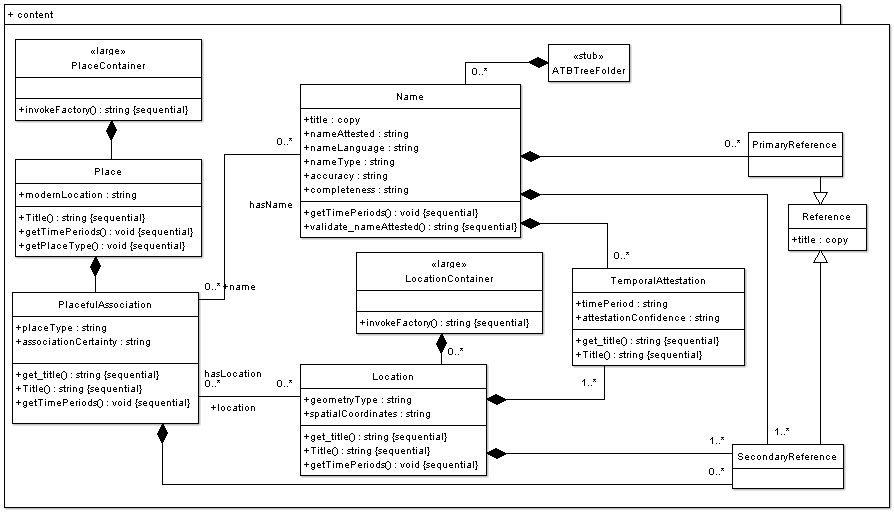
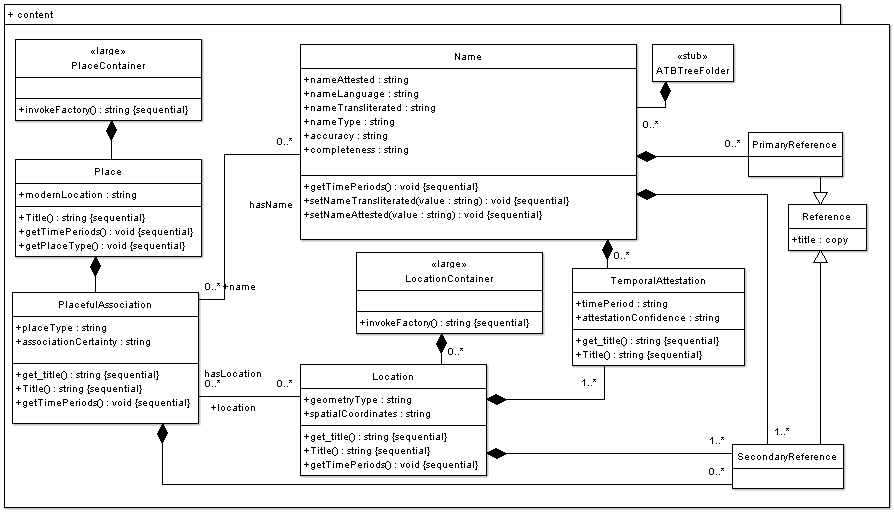
Closes ticket #239. Automatic transliteration of attested names, as well as population of titles for adds/edits through-the-web. Modification of loader code to handle coincident model changes and invoke auto-transliteration as well - UPDATE YOUR EXTERNAL METHODS. Make tests check everything and work

Changed region(s): [[0.3322, 0.1238, 0.6946, 0.4952], [0.5738, 0.0928, 0.8456, 0.4642], [0.5134, 0.0928, 0.5436, 0.1547]]

diff --git a/content/Name.py b/content/Name.py
@@ -36,16 +36,12 @@ from Products.PleiadesEntity.config import *
 ##code-section module-header #fill in your manual code here
 from Products.CMFCore.permissions import View
 from Products.PleiadesEntity.Extensions.ws_validation import validate_name
+from Products.PleiadesEntity.Extensions.ws_transliteration import transliterate_name
 ##/code-section module-header
 
-copied_fields = {}
-copied_fields['title'] = BaseSchema['title'].copy()
-copied_fields['title'].widget.label = "Transliterated Name"
-copied_fields['title'].widget.description = "A transliteration into the ASCII character set of the the attested name."
 schema = Schema((
 
-    copied_fields['title'],
-        StringField(
+    StringField(
         name='nameAttested',
         index="ZCTextIndex",
         widget=StringWidget(
@@ -70,6 +66,15 @@ schema = Schema((
         ),
         vocabulary=NamedVocabulary("""ancient-name-languages"""),
         enforceVocabulary=1
+    ),
+
+    StringField(
+        name='nameTransliterated',
+        widget=StringWidget(
+            label="Transliterated name",
+            label_msgid='PleiadesEntity_label_nameTransliterated',
+            i18n_domain='PleiadesEntity',
+        )
     ),
 
     StringField(
@@ -147,6 +152,9 @@ class Name(BaseFolder):
     schema = Name_schema
 
     ##code-section class-header #fill in your manual code here
+    schema["title"].required = 0
+    schema["title"].widget.visible = {"edit": "invisible", "view": "invisible"}
+    schema["nameTransliterated"].widget.visible = {"edit": "invisible", "view": "visible"}
     ##/code-section class-header
 
     # Methods
@@ -160,6 +168,32 @@ class Name(BaseFolder):
             periods.append(ta.getId)
         return periods
 
+    security.declarePublic('setNameTransliterated')
+    def setNameTransliterated(self,value):
+        """
+        """
+        if len(value) == 0:
+            REQUEST = self.REQUEST
+            tNameLanguage = REQUEST.get('nameLanguage', None)
+            tNameAttested = REQUEST.get('nameAttested', None)
+            if tNameLanguage and tNameAttested:
+                t = transliterate_name(tNameLanguage, tNameAttested)
+            else:
+                t = ''
+        else:
+            t = value
+        self.getField('nameTransliterated').set(self, t)
+        self.getField('title').set(self, t)
+
+    security.declarePublic('setNameAttested')
+    def setNameAttested(self,value):
+        """
+        """
+        self.getField('nameAttested').set(self, value)
+        self.setNameTransliterated('')
+
+    # Manually created methods
+
     security.declareProtected(View, 'post_validate')
     def post_validate(self, REQUEST=None, errors=None):
         vNameLanguage = REQUEST.get('nameLanguage', None)
@@ -167,6 +201,7 @@ class Name(BaseFolder):
         invalid = validate_name(vNameLanguage, vNameAttested)
         if len(invalid) > 0:
             errors['nameAttested'] = invalid
+
 
 
 registerType(Name, PROJECTNAME)

diff --git a/Extensions/loader.py b/Extensions/loader.py
@@ -271,7 +271,8 @@ def load_place(site, file):
         try:
             nid = names.invokeFactory("Name",
                     id=id,
-                    title=transliteration.encode('utf-8'),
+                    title = transliteration.encode('utf-8'),
+                    nameTransliterated=transliteration.encode('utf-8'),
                     nameAttested=nameAttested.encode('utf-8'),
                     nameLanguage=nameLanguage.encode('utf-8'),
                     nameType=type,
@@ -286,7 +287,8 @@ def load_place(site, file):
         except:
             nid = names.duplicates.invokeFactory("Name",
                     id=id,
-                    title=transliteration.encode('utf-8'),
+                    title = transliteration.encode('utf-8'),
+                    nameTransliterated=transliteration.encode('utf-8'),
                     nameAttested=nameAttested.encode('utf-8'),
                     nameLanguage=nameLanguage.encode('utf-8'),
                     nameType=type,

diff --git a/Extensions/ws_grek.py b/Extensions/ws_grek.py
@@ -269,6 +269,13 @@ grek_accented_ancient_small = {
     u"\u1FC7" : "e"  # Greek small letter eta with perispomeni and ypogegrammeni
 }
 
+legal_punctuation = {
+    u"(" : "(",
+    u")" : ")",
+    u"." : "."
+}
+
+
 def validate(value, allow):
     invalids = []
     for i, c in enumerate(value):
@@ -339,7 +346,10 @@ def transliterate(value):
                             try:
                                 b = grek_accented_modern_capital[c]
                             except:
-                                pass
+                                try:
+                                    b = legal_punctuation[c]
+                                except:
+                                    pass
         transliteration += b
     return transliteration
     

diff --git a/Extensions/ws_transliteration.py b/Extensions/ws_transliteration.py
@@ -1,0 +1,14 @@
+import Products.PleiadesEntity.Extensions.ws_grek as ws_grek
+import Products.PleiadesEntity.Extensions.ws_latn as ws_latn
+
+def transliterate_name(lang, name_utf8):
+    wsystem = lang.lower()
+    name = unicode(name_utf8, 'utf-8')
+    if wsystem == 'grc' or wsystem == 'la-grek':
+        transliteration = ws_grek.transliterate(name)
+    elif wsystem == 'la' or wsystem == 'grc-latn':
+        transliteration = ws_latn.transliterate(name)
+    else:
+        return 'Unsupported writing system (%s) in PleiadesEntity/Extensions/ws_transliteration.py' % lang
+    return transliteration
+    

diff --git a/Extensions/ws_latn.py b/Extensions/ws_latn.py
@@ -51,6 +51,12 @@ latn_small = {
     u"z" : "z"     # Latin capital letter z
 }
 
+legal_punctuation = {
+    u"(" : "(",
+    u")" : ")",
+    u"." : "."
+}
+
 
 def validate(value, allow):
     invalids = []
@@ -88,7 +94,10 @@ def transliterate(value):
             try:
                 b = latn_capital[c]
             except:
-                pass
+                try:
+                    b = legal_punctuation[c]
+                except:
+                    pass
         transliteration += b
     return transliteration
     

diff --git a/config.py b/config.py
@@ -38,7 +38,7 @@ __docformat__ = 'plaintext'
 # AppConfig.py in your product's root directory. This will be included
 # in this file if found.
 
-from Products.CMFCore.permissions import setDefaultRoles
+from Products.CMFCore.CMFCorePermissions import setDefaultRoles
 ##code-section config-head #fill in your manual code here
 ##/code-section config-head
 

diff --git a/__init__.py b/__init__.py
@@ -50,7 +50,7 @@ except ImportError:
 
 from Globals import package_home
 from Products.CMFCore import utils as cmfutils
-from Products.CMFCore import permissions
+from Products.CMFCore import CMFCorePermissions
 from Products.CMFCore import DirectoryView
 from Products.CMFPlone.utils import ToolInit
 from Products.Archetypes.atapi import *
